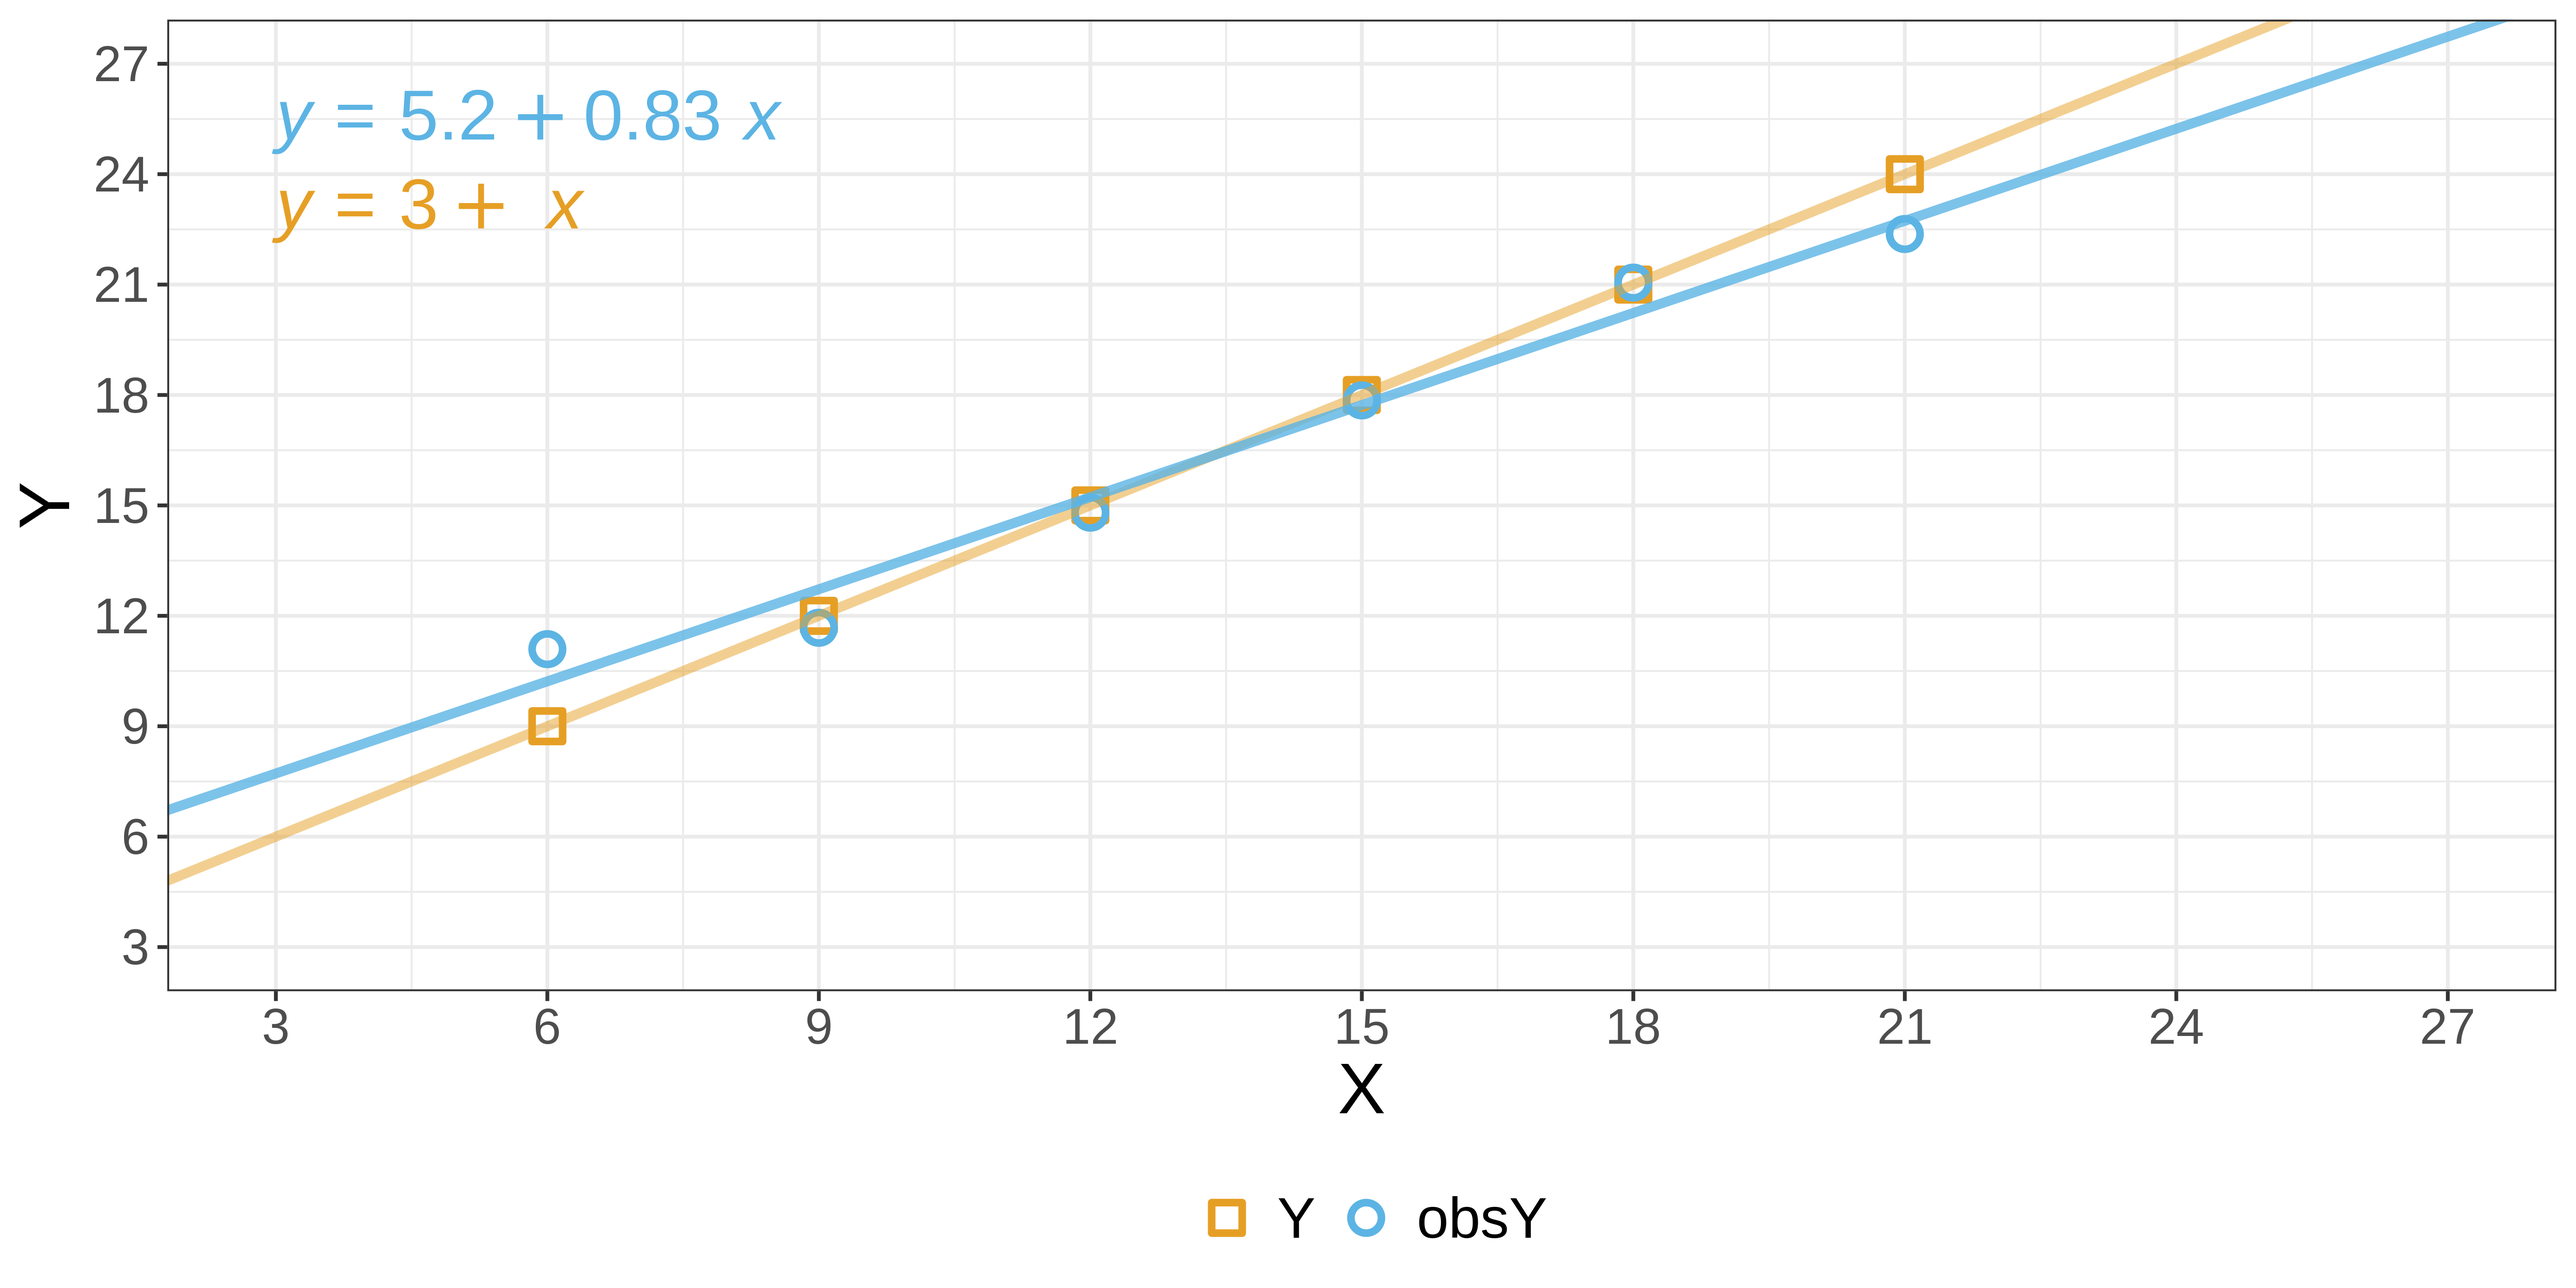
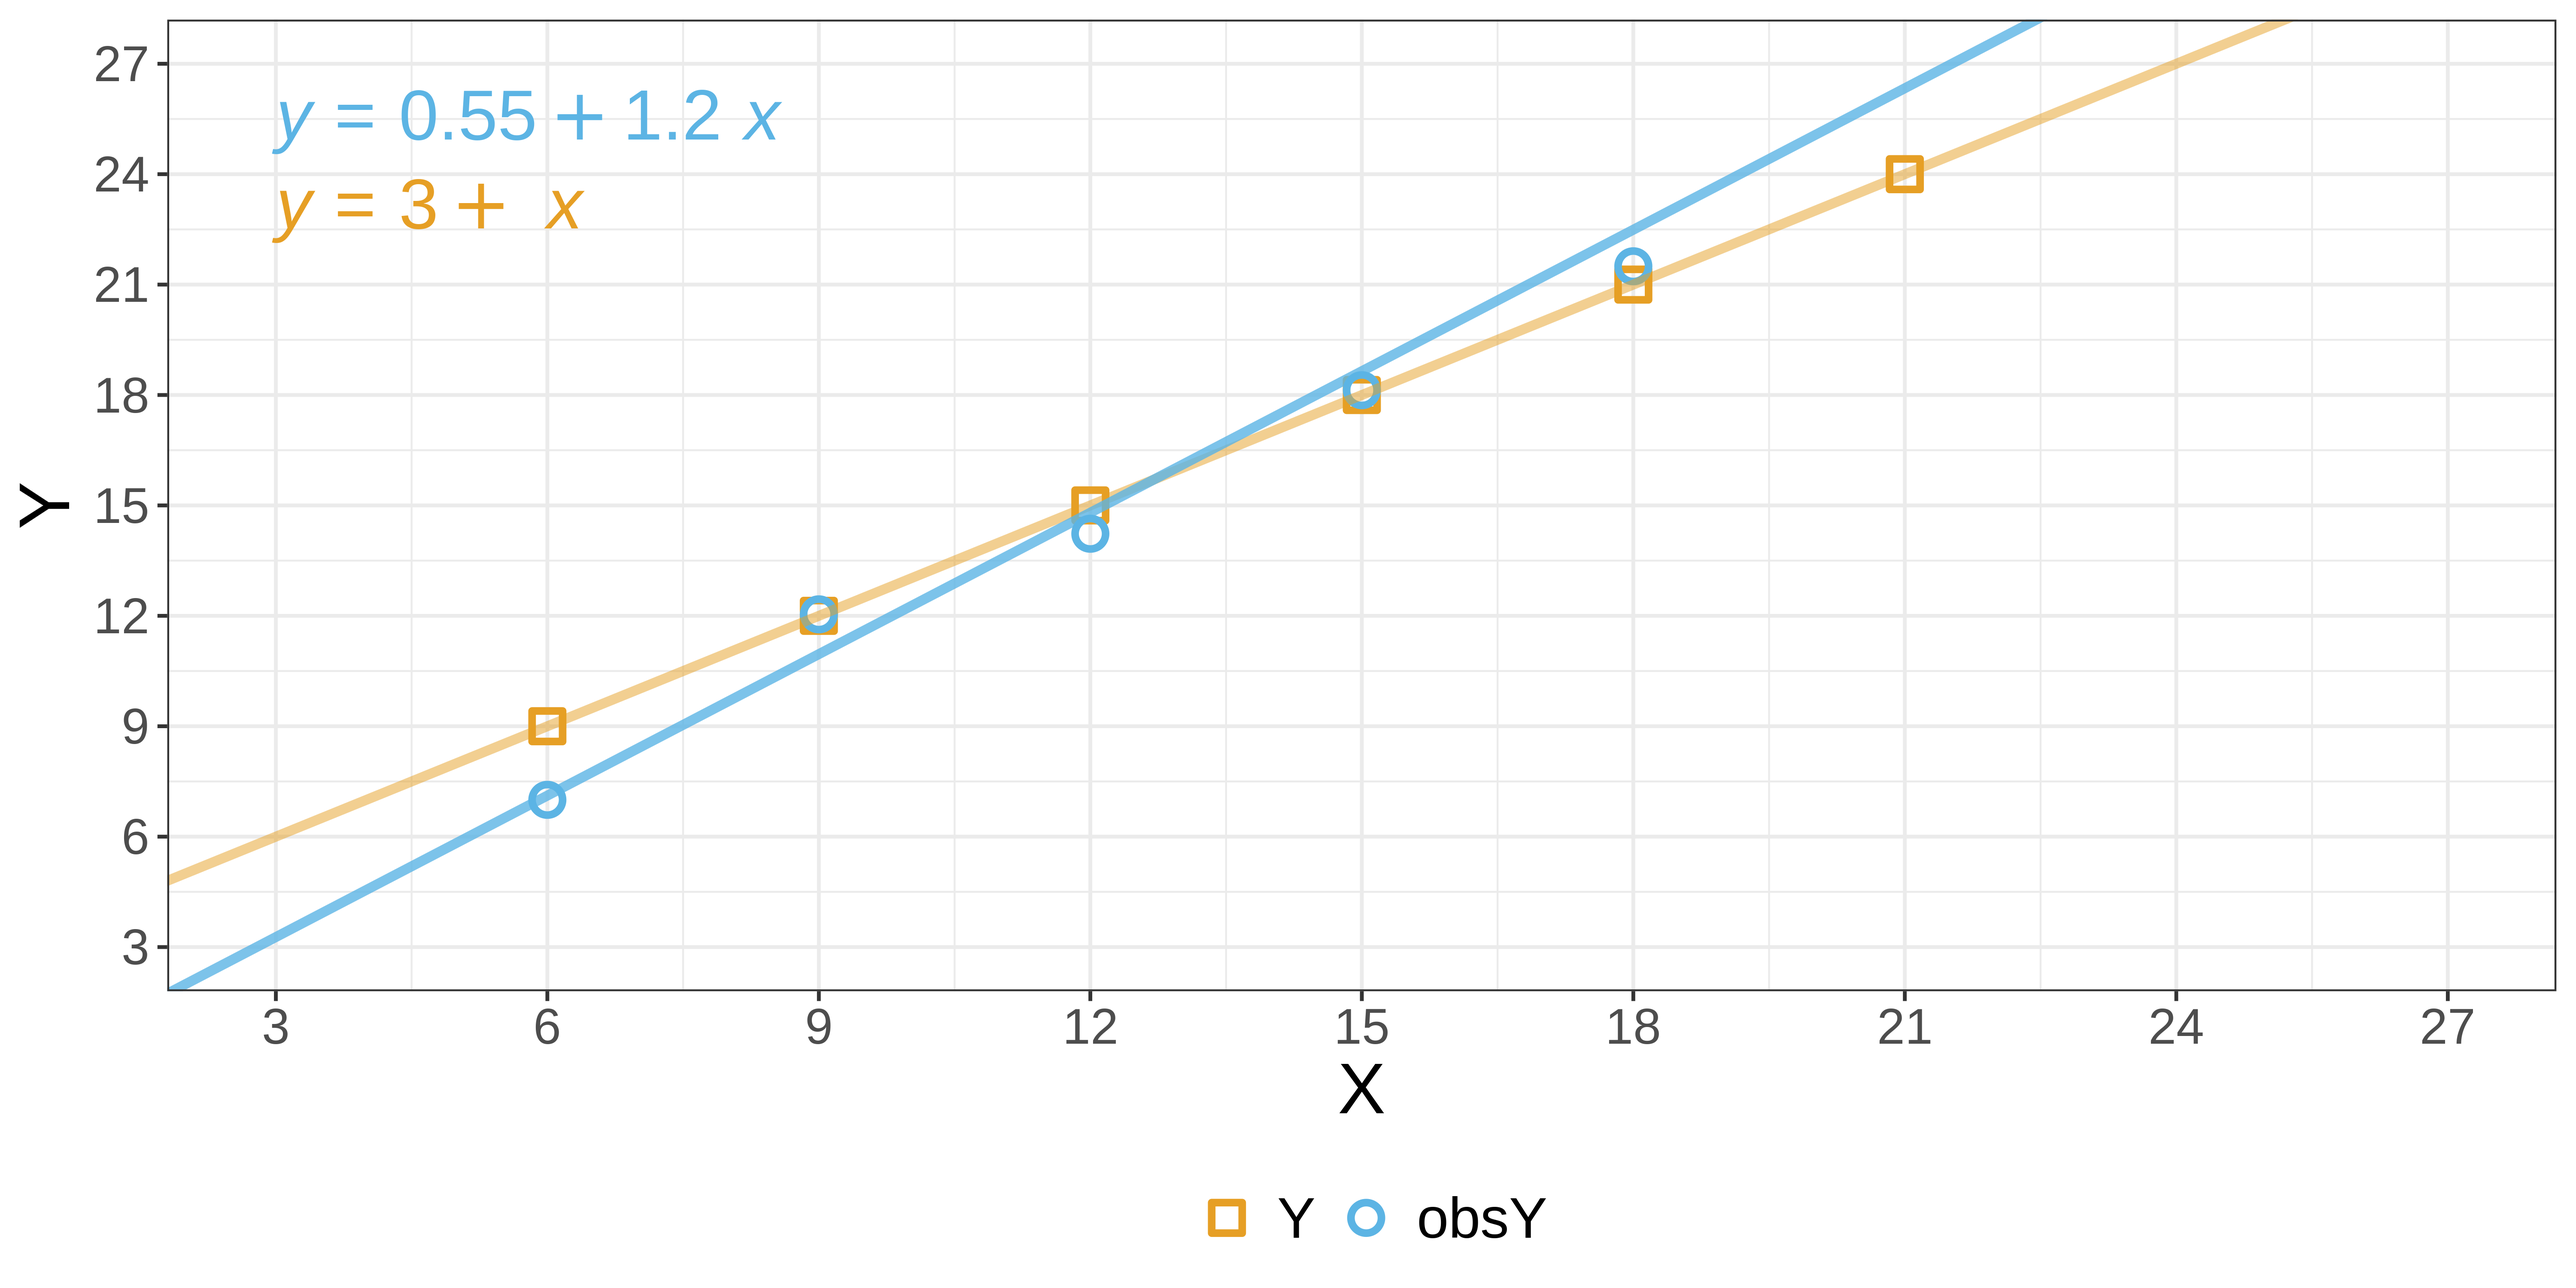
Built site for gh-pages

diff --git a/slides/week01_slides_part1.html b/slides/week01_slides_part1.html
@@ -433,12 +433,43 @@
 </div>
 </div>
 </section>
-<section id="your-lecturer" class="slide level2">
+<section id="your-lecturer" class="slide level2 smaller">
 <h2>Your lecturer</h2>
+<p><img data-src="../figures/people/jon.jpeg" class="absolute img-fluid" style="top: 28.5%; left: 15%; width: 20%; "></p>
+<div class="columns">
+<div class="column" style="width:40%;">
+
+</div><div class="column" style="width:60%;">
+<p><br> <br></p>
+<p><strong>Dr.&nbsp;Jonathan Cardoso-Silva</strong></p>
 <ul>
-<li><mark class="todo"> </mark></li>
-<li><mark class="todo"> Also present the teaching assistants </mark></li>
+<li>PhD in Computer Science</li>
+<li>Background: Computer Science,Engineering,Data Science</li>
+<li>Research:
+<ul>
+<li>Networks</li>
+<li>Optimisation</li>
+<li>Machine Learning applications</li>
+<li>Data Science Workflow</li>
+</ul></li>
 </ul>
+</div>
+</div>
+</section>
+<section id="teaching-assistants" class="slide level2 smaller">
+<h2>Teaching Assistants</h2>
+<div class="columns">
+<div class="column" style="width: 30%;border-style: dotted;border-width: 1px;border-color: &quot;#fefefe&quot;; margin-left:0.5%;padding:1%;">
+<p><img data-src="../figures/people/Anton.jpg" class="img-fluid" style="width:5em" data-fig-align="left" alt="Photo of Anton Boichenko"><br>
+<strong><a href="http://boychenko.pro/">Anton Boichenko</a></strong> <br> <em>Guest Teacher</em><br> Developer at Decoded <br> <br> <br></p>
+</div><div class="column" style="width: 30%;border-style: dotted;border-width: 1px;border-color: &quot;#fefefe&quot;; margin-left:0.5%;padding:1%;">
+<p><img data-src="../figures/people/Xiaowei.png" class="img-fluid" style="width:5em" data-fig-align="left" alt="Photo of Xiaowei Gao"><br>
+<strong><a href="https://github.com/UCLWilson">Xiaowei Gao</a></strong> <br> <em>Guest Teacher</em><br> PhD Student at KCL in Health Informatics <br> <br></p>
+</div><div class="column" style="width: 30%;border-style: dotted;border-width: 1px;border-color: &quot;#fefefe&quot;; margin-left:0.5%;padding:1%;">
+<p><img data-src="../figures/people/Yijun.jpg" class="img-fluid" style="width:5em" data-fig-align="left" alt="Photo of Yijun Wang"><br>
+<strong><a href="https://www.kcl.ac.uk/people/yijun-wang">Yijun Wang</a></strong> <br> <em>Guest Teacher</em><br> PhD Student at UCL Centre for Advanced Spatial Analysis</p>
+</div>
+</div>
 </section>
 <section id="who-are-you" class="slide level2 scrollable">
 <h2>Who are you</h2>
@@ -711,7 +742,34 @@
 </section>
 <section id="class-groups" class="slide level2">
 <h2>Class groups</h2>
-<p><mark class="todo"> Update the groups here once we hear back from LSE Timetables</mark></p>
+<p><br></p>
+<div class="columns">
+<div class="column" style="width: 29%;border-style: dotted;border-width: 1px;border-color: &quot;#fefefe&quot;; margin-right:1%;padding:1.5%;font-size:0.8em;">
+<p><strong>Group 01</strong></p>
+<ul>
+<li>📆 Mondays</li>
+<li>⌚ 09:00 — 10:30</li>
+<li>📍 PAN.1.03</li>
+</ul>
+</div><div class="column" style="width: 29%;border-style: dotted;border-width: 1px;border-color: &quot;#fefefe&quot;; margin-right:1%;padding:1.5%;font-size:0.8em;">
+<p><strong>Group 02</strong></p>
+<ul>
+<li>📆 Mondays</li>
+<li>⌚ 10:30 — 12:00</li>
+<li>📍 PAN.1.03</li>
+</ul>
+</div><div class="column" style="width: 29%;border-style: dotted;border-width: 1px;border-color: &quot;#fefefe&quot;; margin-right:1%;padding:1.5%;font-size:0.8em;">
+<p><strong>Group 03</strong></p>
+<ul>
+<li>📆 Mondays</li>
+<li>⌚ 13:00 — 14:30</li>
+<li>📍 MAR.1.09</li>
+</ul>
+</div>
+</div>
+<div class="footer">
+<p>🗺 Check <a href="https://www.lse.ac.uk/lse-information/campus-map">LSE campus map</a></p>
+</div>
 </section>
 <section id="assessments" class="slide level2">
 <h2>Assessments <span class="emoji" data-emoji="notebook_with_decorative_cover">📔</span></h2>
@@ -763,7 +821,7 @@
 <h2>Communication</h2>
 <div>
 <ul>
-<li class="fragment">Join our Slack group: <mark class="todo"> add link to slack</mark></li>
+<li class="fragment">Join our Slack group (more info <a href="../main/communication.html">here</a>).</li>
 <li class="fragment">Use the public Slack channels to talk to share links, content (or <em>memes</em>) with your colleagues.</li>
 <li class="fragment">Our teaching team will dedicate some time during the week to answer questions or other interactions on Slack.</li>
 <li class="fragment">Reserve <span class="emoji" data-emoji="email">📧</span> e-mail for <strong>formal requests</strong>: extensions, deferrals, etc.

diff --git a/slides/week01_slides_part2.html b/slides/week01_slides_part2.html
@@ -1086,12 +1086,12 @@ communicate-&gt;end
 <pre><code># A tibble: 6 × 3
       X     Y  obsY
   &lt;int&gt; &lt;int&gt; &lt;dbl&gt;
-1     6     9  11.1
-2     9    12  11.7
-3    12    15  14.8
-4    15    18  17.9
-5    18    21  21.1
-6    21    24  22.4</code></pre>
+1     6     9  7.00
+2     9    12 12.0 
+3    12    15 14.2 
+4    15    18 18.1 
+5    18    21 21.5 
+6    21    24 27.5 </code></pre>
 </div>
 </div>
 </section>
@@ -1146,12 +1146,12 @@ communicate-&gt;end
 <pre><code># A tibble: 6 × 5
       X     Y  obsY   error absError
   &lt;int&gt; &lt;int&gt; &lt;dbl&gt;   &lt;dbl&gt;    &lt;dbl&gt;
-1     6     9  11.1 -2.09     2.09  
-2     9    12  11.7  0.325    0.325 
-3    12    15  14.8  0.197    0.197 
-4    15    18  17.9  0.146    0.146 
-5    18    21  21.1 -0.0538   0.0538
-6    21    24  22.4  1.63     1.63  </code></pre>
+1     6     9  7.00  2.00     2.00  
+2     9    12 12.0  -0.0401   0.0401
+3    12    15 14.2   0.770    0.770 
+4    15    18 18.1  -0.130    0.130 
+5    18    21 21.5  -0.497    0.497 
+6    21    24 27.5  -3.45     3.45  </code></pre>
 </div>
 </div>
 <div class="fragment">
@@ -1159,7 +1159,7 @@ communicate-&gt;end
 <div class="cell" data-output-location="fragment">
 <div class="sourceCode cell-code" id="cb7"><pre class="sourceCode numberSource r code-overflow-wrap number-lines code-with-copy"><code class="sourceCode r"><span id="cb7-1"><a href="#cb7-1"></a><span class="fu">mean</span>(df<span class="sc">$</span>absError)</span></code><button title="Copy to Clipboard" class="code-copy-button"><i class="bi"></i></button></pre></div>
 <div class="cell-output cell-output-stdout">
-<pre><code>[1] 0.7404593</code></pre>
+<pre><code>[1] 1.14837</code></pre>
 </div>
 </div>
 </div>

diff --git a/weeks/week01/lecture.html b/weeks/week01/lecture.html
@@ -7,7 +7,7 @@
 <meta name="viewport" content="width=device-width, initial-scale=1.0, user-scalable=yes">
 
 <meta name="author" content="Dr.&nbsp;Jon Cardoso-Silva">
-<meta name="dcterms.date" content="5 September 2022">
+<meta name="dcterms.date" content="19 September 2022">
 
 <title>LSE DS202 2022/23 - 👨🏫 Week 01 - Slides</title>
 <style>
@@ -262,7 +262,7 @@ ul.task-list li input[type="checkbox"] {
     <div>
     <div class="quarto-title-meta-heading">Published</div>
     <div class="quarto-title-meta-contents">
-      <p class="date">05 September 2022</p>
+      <p class="date">19 September 2022</p>
     </div>
   </div>
     
@@ -273,7 +273,6 @@ ul.task-list li input[type="checkbox"] {
 
 <section id="part-i---introduction-45-50-min" class="level2">
 <h2 class="anchored" data-anchor-id="part-i---introduction-45-50-min">Part I - Introduction (45-50 min)</h2>
-<p><mark class="todo"></mark></p>
 <p>Either click on the slide area below or click <a href="../../slides/week01_slides_part1.html">here</a> to view it in fullscreen. Use your keypad to navigate the slides.</p>
 <div class="container" style="position: relative;overflow: hidden;width: 100%;min-height:600px;">
 <iframe src="../../slides/week01_slides_part1.html" style="position=absolute;top: 0;left: 0;bottom: 0;right: 0;width: 100%;min-height:600px;">
